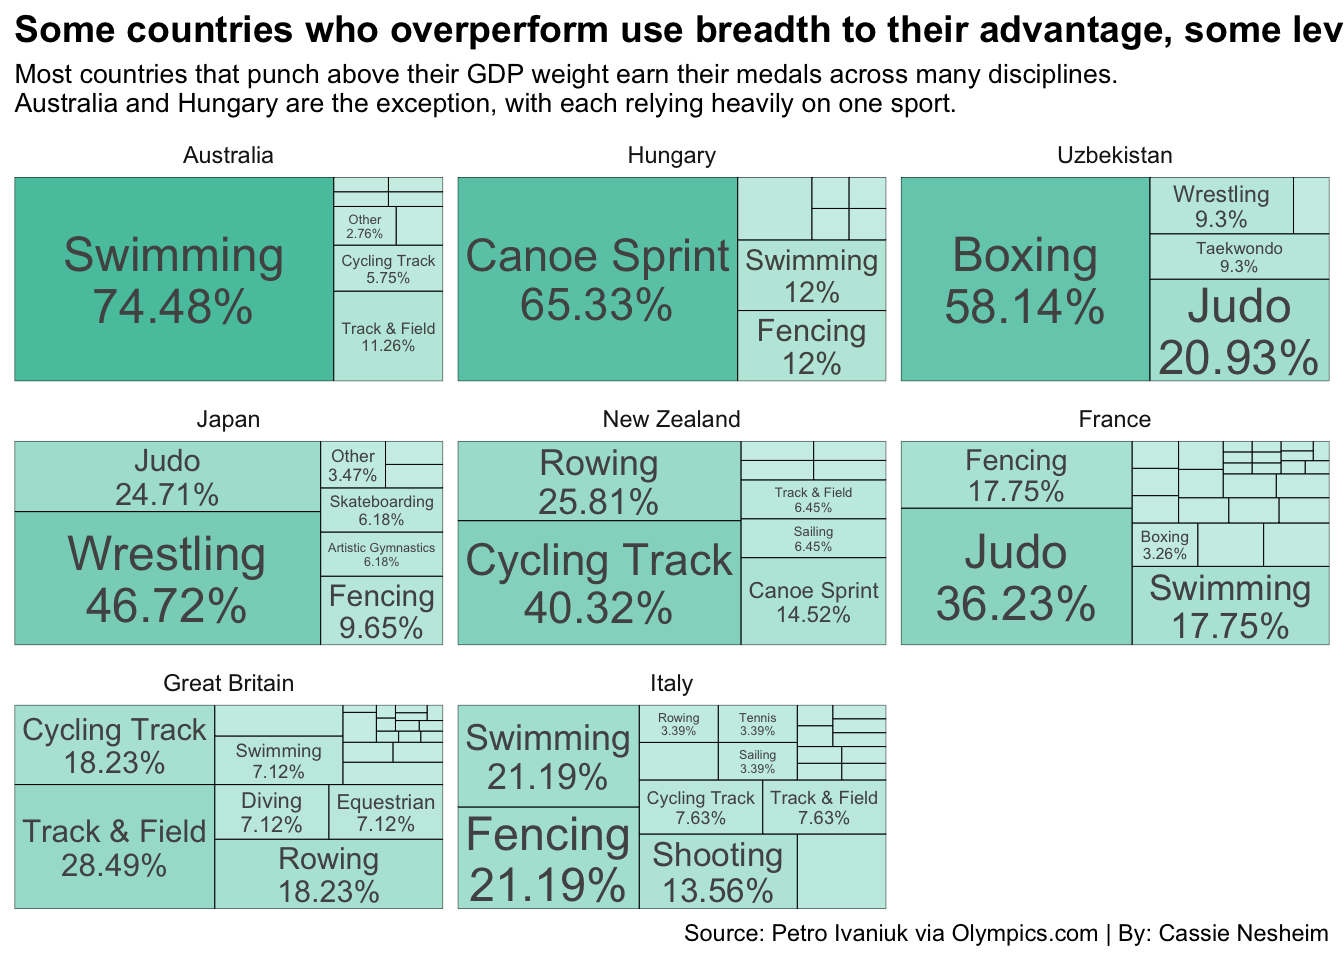
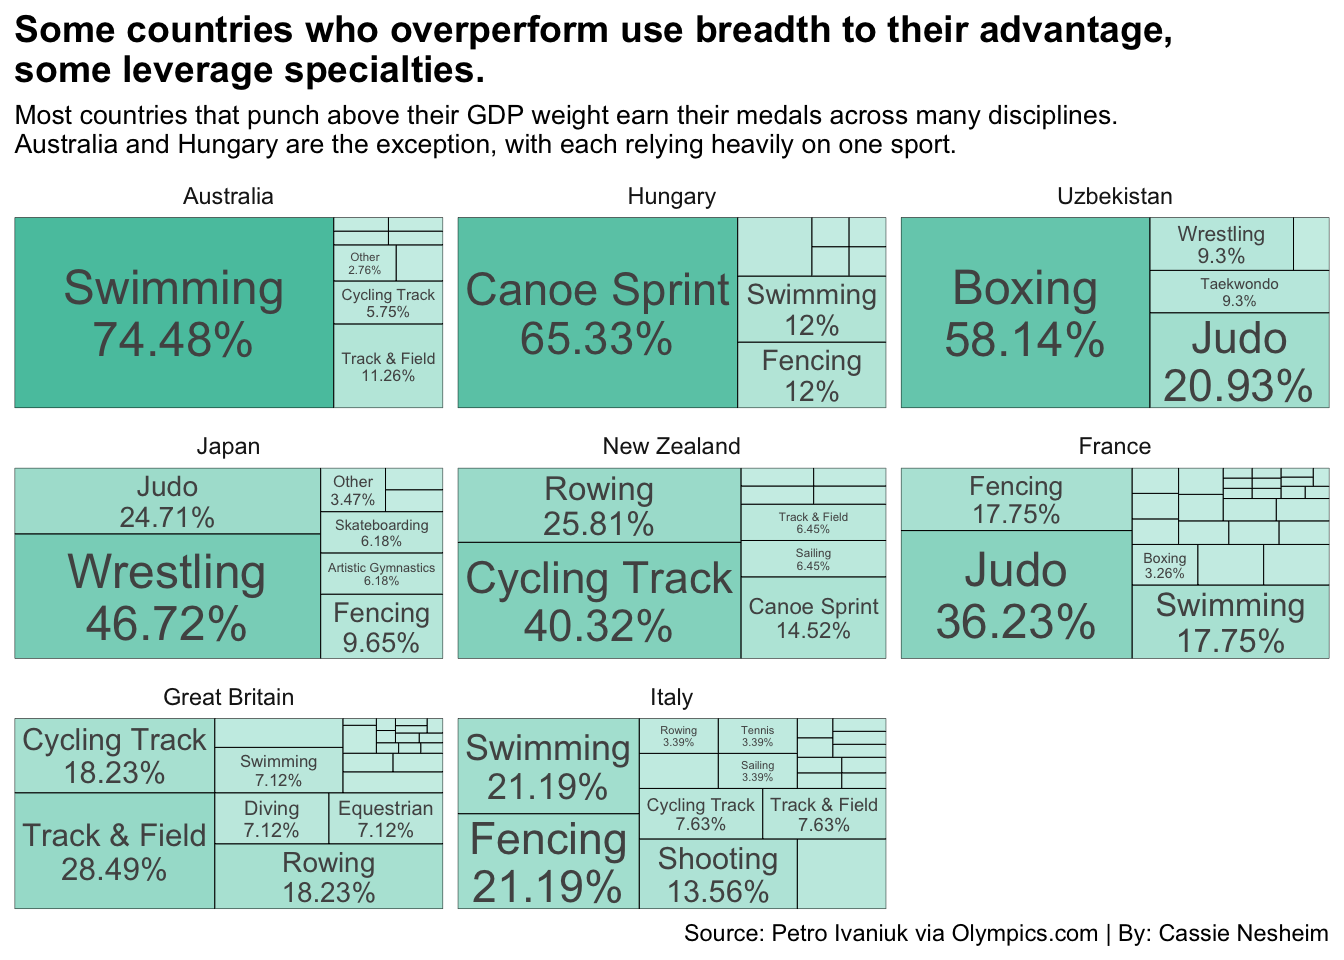
quick edit

Changed region(s): [[0.0, 0.0625, 1.0, 0.9375], [0.875, 0.0, 1.0, 0.0625]]

diff --git a/posts/olympics-gdp-population-medals/index.html b/posts/olympics-gdp-population-medals/index.html
@@ -711,23 +711,23 @@ pre > code.sourceCode > span > a:first-child::before { text-decoration: underlin
 <span id="cb6-74"><a href="#cb6-74" aria-hidden="true" tabindex="-1"></a>  )</span></code></pre></div><button title="Copy to Clipboard" class="code-copy-button"><i class="bi"></i></button></div>
 </details>
 <div class="cell-output-display">
-<div id="btnipgbjbt" style="padding-left:0px;padding-right:0px;padding-top:10px;padding-bottom:10px;overflow-x:auto;overflow-y:auto;width:auto;height:auto;">
-<style>#btnipgbjbt table {
+<div id="lgkdzvafzx" style="padding-left:0px;padding-right:0px;padding-top:10px;padding-bottom:10px;overflow-x:auto;overflow-y:auto;width:auto;height:auto;">
+<style>#lgkdzvafzx table {
   font-family: system-ui, 'Segoe UI', Roboto, Helvetica, Arial, sans-serif, 'Apple Color Emoji', 'Segoe UI Emoji', 'Segoe UI Symbol', 'Noto Color Emoji';
   -webkit-font-smoothing: antialiased;
   -moz-osx-font-smoothing: grayscale;
 }
 
-#btnipgbjbt thead, #btnipgbjbt tbody, #btnipgbjbt tfoot, #btnipgbjbt tr, #btnipgbjbt td, #btnipgbjbt th {
+#lgkdzvafzx thead, #lgkdzvafzx tbody, #lgkdzvafzx tfoot, #lgkdzvafzx tr, #lgkdzvafzx td, #lgkdzvafzx th {
   border-style: none;
 }
 
-#btnipgbjbt p {
+#lgkdzvafzx p {
   margin: 0;
   padding: 0;
 }
 
-#btnipgbjbt .gt_table {
+#lgkdzvafzx .gt_table {
   display: table;
   border-collapse: collapse;
   line-height: normal;
@@ -753,12 +753,12 @@ pre > code.sourceCode > span > a:first-child::before { text-decoration: underlin
   border-left-color: #D3D3D3;
 }
 
-#btnipgbjbt .gt_caption {
+#lgkdzvafzx .gt_caption {
   padding-top: 4px;
   padding-bottom: 4px;
 }
 
-#btnipgbjbt .gt_title {
+#lgkdzvafzx .gt_title {
   color: #333333;
   font-size: 125%;
   font-weight: initial;
@@ -770,7 +770,7 @@ pre > code.sourceCode > span > a:first-child::before { text-decoration: underlin
   border-bottom-width: 0;
 }
 
-#btnipgbjbt .gt_subtitle {
+#lgkdzvafzx .gt_subtitle {
   color: #333333;
   font-size: 85%;
   font-weight: initial;
@@ -782,7 +782,7 @@ pre > code.sourceCode > span > a:first-child::before { text-decoration: underlin
   border-top-width: 0;
 }
 
-#btnipgbjbt .gt_heading {
+#lgkdzvafzx .gt_heading {
   background-color: #FFFFFF;
   text-align: center;
   border-bottom-color: #FFFFFF;
@@ -794,13 +794,13 @@ pre > code.sourceCode > span > a:first-child::before { text-decoration: underlin
   border-right-color: #D3D3D3;
 }
 
-#btnipgbjbt .gt_bottom_border {
+#lgkdzvafzx .gt_bottom_border {
   border-bottom-style: none;
   border-bottom-width: 2px;
   border-bottom-color: #D3D3D3;
 }
 
-#btnipgbjbt .gt_col_headings {
+#lgkdzvafzx .gt_col_headings {
   border-top-style: none;
   border-top-width: 2px;
   border-top-color: #D3D3D3;
@@ -815,7 +815,7 @@ pre > code.sourceCode > span > a:first-child::before { text-decoration: underlin
   border-right-color: #D3D3D3;
 }
 
-#btnipgbjbt .gt_col_heading {
+#lgkdzvafzx .gt_col_heading {
   color: #333333;
   background-color: #FFFFFF;
   font-size: 100%;
@@ -835,7 +835,7 @@ pre > code.sourceCode > span > a:first-child::before { text-decoration: underlin
   overflow-x: hidden;
 }
 
-#btnipgbjbt .gt_column_spanner_outer {
+#lgkdzvafzx .gt_column_spanner_outer {
   color: #333333;
   background-color: #FFFFFF;
   font-size: 100%;
@@ -847,15 +847,15 @@ pre > code.sourceCode > span > a:first-child::before { text-decoration: underlin
   padding-right: 4px;
 }
 
-#btnipgbjbt .gt_column_spanner_outer:first-child {
+#lgkdzvafzx .gt_column_spanner_outer:first-child {
   padding-left: 0;
 }
 
-#btnipgbjbt .gt_column_spanner_outer:last-child {
+#lgkdzvafzx .gt_column_spanner_outer:last-child {
   padding-right: 0;
 }
 
-#btnipgbjbt .gt_column_spanner {
+#lgkdzvafzx .gt_column_spanner {
   border-bottom-style: none;
   border-bottom-width: 2px;
   border-bottom-color: #D3D3D3;
@@ -867,11 +867,11 @@ pre > code.sourceCode > span > a:first-child::before { text-decoration: underlin
   width: 100%;
 }
 
-#btnipgbjbt .gt_spanner_row {
+#lgkdzvafzx .gt_spanner_row {
   border-bottom-style: hidden;
 }
 
-#btnipgbjbt .gt_group_heading {
+#lgkdzvafzx .gt_group_heading {
   padding-top: 8px;
   padding-bottom: 8px;
   padding-left: 5px;
@@ -897,7 +897,7 @@ pre > code.sourceCode > span > a:first-child::before { text-decoration: underlin
   text-align: left;
 }
 
-#btnipgbjbt .gt_empty_group_heading {
+#lgkdzvafzx .gt_empty_group_heading {
   padding: 0.5px;
   color: #333333;
   background-color: #FFFFFF;
@@ -912,15 +912,15 @@ pre > code.sourceCode > span > a:first-child::before { text-decoration: underlin
   vertical-align: middle;
 }
 
-#btnipgbjbt .gt_from_md > :first-child {
+#lgkdzvafzx .gt_from_md > :first-child {
   margin-top: 0;
 }
 
-#btnipgbjbt .gt_from_md > :last-child {
+#lgkdzvafzx .gt_from_md > :last-child {
   margin-bottom: 0;
 }
 
-#btnipgbjbt .gt_row {
+#lgkdzvafzx .gt_row {
   padding-top: 8px;
   padding-bottom: 8px;
   padding-left: 5px;
@@ -939,7 +939,7 @@ pre > code.sourceCode > span > a:first-child::before { text-decoration: underlin
   overflow-x: hidden;
 }
 
-#btnipgbjbt .gt_stub {
+#lgkdzvafzx .gt_stub {
   color: #333333;
   background-color: #FFFFFF;
   font-size: 100%;
@@ -952,7 +952,7 @@ pre > code.sourceCode > span > a:first-child::before { text-decoration: underlin
   padding-right: 5px;
 }
 
-#btnipgbjbt .gt_stub_row_group {
+#lgkdzvafzx .gt_stub_row_group {
   color: #333333;
   background-color: #FFFFFF;
   font-size: 100%;
@@ -966,15 +966,15 @@ pre > code.sourceCode > span > a:first-child::before { text-decoration: underlin
   vertical-align: top;
 }
 
-#btnipgbjbt .gt_row_group_first td {
+#lgkdzvafzx .gt_row_group_first td {
   border-top-width: 2px;
 }
 
-#btnipgbjbt .gt_row_group_first th {
+#lgkdzvafzx .gt_row_group_first th {
   border-top-width: 2px;
 }
 
-#btnipgbjbt .gt_summary_row {
+#lgkdzvafzx .gt_summary_row {
   color: #333333;
   background-color: #FFFFFF;
   text-transform: inherit;
@@ -984,16 +984,16 @@ pre > code.sourceCode > span > a:first-child::before { text-decoration: underlin
   padding-right: 5px;
 }
 
-#btnipgbjbt .gt_first_summary_row {
+#lgkdzvafzx .gt_first_summary_row {
   border-top-style: none;
   border-top-color: #D3D3D3;
 }
 
-#btnipgbjbt .gt_first_summary_row.thick {
+#lgkdzvafzx .gt_first_summary_row.thick {
   border-top-width: 2px;
 }
 
-#btnipgbjbt .gt_last_summary_row {
+#lgkdzvafzx .gt_last_summary_row {
   padding-top: 8px;
   padding-bottom: 8px;
   padding-left: 5px;
@@ -1003,7 +1003,7 @@ pre > code.sourceCode > span > a:first-child::before { text-decoration: underlin
   border-bottom-color: #D3D3D3;
 }
 
-#btnipgbjbt .gt_grand_summary_row {
+#lgkdzvafzx .gt_grand_summary_row {
   color: #333333;
   background-color: #FFFFFF;
   text-transform: inherit;
@@ -1013,7 +1013,7 @@ pre > code.sourceCode > span > a:first-child::before { text-decoration: underlin
   padding-right: 5px;
 }
 
-#btnipgbjbt .gt_first_grand_summary_row {
+#lgkdzvafzx .gt_first_grand_summary_row {
   padding-top: 8px;
   padding-bottom: 8px;
   padding-left: 5px;
@@ -1023,7 +1023,7 @@ pre > code.sourceCode > span > a:first-child::before { text-decoration: underlin
   border-top-color: #D3D3D3;
 }
 
-#btnipgbjbt .gt_last_grand_summary_row_top {
+#lgkdzvafzx .gt_last_grand_summary_row_top {
   padding-top: 8px;
   padding-bottom: 8px;
   padding-left: 5px;
@@ -1033,11 +1033,11 @@ pre > code.sourceCode > span > a:first-child::before { text-decoration: underlin
   border-bottom-color: #D3D3D3;
 }
 
-#btnipgbjbt .gt_striped {
+#lgkdzvafzx .gt_striped {
   background-color: rgba(128, 128, 128, 0.05);
 }
 
-#btnipgbjbt .gt_table_body {
+#lgkdzvafzx .gt_table_body {
   border-top-style: none;
   border-top-width: 2px;
   border-top-color: #D3D3D3;
@@ -1046,7 +1046,7 @@ pre > code.sourceCode > span > a:first-child::before { text-decoration: underlin
   border-bottom-color: #D3D3D3;
 }
 
-#btnipgbjbt .gt_footnotes {
+#lgkdzvafzx .gt_footnotes {
   color: #333333;
   background-color: #FFFFFF;
   border-bottom-style: none;
@@ -1060,7 +1060,7 @@ pre > code.sourceCode > span > a:first-child::before { text-decoration: underlin
   border-right-color: #D3D3D3;
 }
 
-#btnipgbjbt .gt_footnote {
+#lgkdzvafzx .gt_footnote {
   margin: 0px;
   font-size: 90%;
   padding-top: 4px;
@@ -1069,7 +1069,7 @@ pre > code.sourceCode > span > a:first-child::before { text-decoration: underlin
   padding-right: 5px;
 }
 
-#btnipgbjbt .gt_sourcenotes {
+#lgkdzvafzx .gt_sourcenotes {
   color: #333333;
   background-color: #FFFFFF;
   border-bottom-style: none;
@@ -1083,7 +1083,7 @@ pre > code.sourceCode > span > a:first-child::before { text-decoration: underlin
   border-right-color: #D3D3D3;
 }
 
-#btnipgbjbt .gt_sourcenote {
+#lgkdzvafzx .gt_sourcenote {
   font-size: 90%;
   padding-top: 4px;
   padding-bottom: 4px;
@@ -1091,72 +1091,72 @@ pre > code.sourceCode > span > a:first-child::before { text-decoration: underlin
   padding-right: 5px;
 }
 
-#btnipgbjbt .gt_left {
+#lgkdzvafzx .gt_left {
   text-align: left;
 }
 
-#btnipgbjbt .gt_center {
+#lgkdzvafzx .gt_center {
   text-align: center;
 }
 
-#btnipgbjbt .gt_right {
+#lgkdzvafzx .gt_right {
   text-align: right;
   font-variant-numeric: tabular-nums;
 }
 
-#btnipgbjbt .gt_font_normal {
+#lgkdzvafzx .gt_font_normal {
   font-weight: normal;
 }
 
-#btnipgbjbt .gt_font_bold {
+#lgkdzvafzx .gt_font_bold {
   font-weight: bold;
 }
 
-#btnipgbjbt .gt_font_italic {
+#lgkdzvafzx .gt_font_italic {
   font-style: italic;
 }
 
-#btnipgbjbt .gt_super {
+#lgkdzvafzx .gt_super {
   font-size: 65%;
 }
 
-#btnipgbjbt .gt_footnote_marks {
+#lgkdzvafzx .gt_footnote_marks {
   font-size: 75%;
   vertical-align: 0.4em;
   position: initial;
 }
 
-#btnipgbjbt .gt_asterisk {
+#lgkdzvafzx .gt_asterisk {
   font-size: 100%;
   vertical-align: 0;
 }
 
-#btnipgbjbt .gt_indent_1 {
+#lgkdzvafzx .gt_indent_1 {
   text-indent: 5px;
 }
 
-#btnipgbjbt .gt_indent_2 {
+#lgkdzvafzx .gt_indent_2 {
   text-indent: 10px;
 }
 
-#btnipgbjbt .gt_indent_3 {
+#lgkdzvafzx .gt_indent_3 {
   text-indent: 15px;
 }
 
-#btnipgbjbt .gt_indent_4 {
+#lgkdzvafzx .gt_indent_4 {
   text-indent: 20px;
 }
 
-#btnipgbjbt .gt_indent_5 {
+#lgkdzvafzx .gt_indent_5 {
   text-indent: 25px;
 }
 
-#btnipgbjbt .katex-display {
+#lgkdzvafzx .katex-display {
   display: inline-flex !important;
   margin-bottom: 0.75em !important;
 }
 
-#btnipgbjbt div.Reactable > div.rt-table > div.rt-thead > div.rt-tr.rt-tr-group-header > div.rt-th-group:after {
+#lgkdzvafzx div.Reactable > div.rt-table > div.rt-thead > div.rt-tr.rt-tr-group-header > div.rt-th-group:after {
   height: 0px !important;
 }
 </style>
@@ -1262,7 +1262,7 @@ pre > code.sourceCode > span > a:first-child::before { text-decoration: underlin
 <span id="cb7-28"><a href="#cb7-28" aria-hidden="true" tabindex="-1"></a>  <span class="fu">facet_wrap</span>(<span class="sc">~</span>country) <span class="sc">+</span></span>
 <span id="cb7-29"><a href="#cb7-29" aria-hidden="true" tabindex="-1"></a>  <span class="fu">geom_treemap_text</span>(<span class="at">color=</span><span class="st">"gray32"</span>, <span class="at">place=</span><span class="st">"center"</span>) <span class="sc">+</span></span>
 <span id="cb7-30"><a href="#cb7-30" aria-hidden="true" tabindex="-1"></a>  <span class="fu">scale_fill_gradient</span>(<span class="at">low=</span><span class="st">"#CFEFE8"</span>, <span class="at">high=</span><span class="st">"#57C4AD"</span>) <span class="sc">+</span></span>
-<span id="cb7-31"><a href="#cb7-31" aria-hidden="true" tabindex="-1"></a>  <span class="fu">labs</span>(<span class="at">title=</span><span class="st">"Some countries who overperform use breadth to their advantage, some leverage specialties."</span>, </span>
+<span id="cb7-31"><a href="#cb7-31" aria-hidden="true" tabindex="-1"></a>  <span class="fu">labs</span>(<span class="at">title=</span><span class="st">"Some countries who overperform use breadth to their advantage, </span><span class="sc">\n</span><span class="st">some leverage specialties."</span>, </span>
 <span id="cb7-32"><a href="#cb7-32" aria-hidden="true" tabindex="-1"></a>       <span class="at">subtitle=</span><span class="st">"Most countries that punch above their GDP weight earn their medals across many disciplines. </span><span class="sc">\n</span><span class="st">Australia and Hungary are the exception, with each relying heavily on one sport."</span>, </span>
 <span id="cb7-33"><a href="#cb7-33" aria-hidden="true" tabindex="-1"></a>       <span class="at">caption=</span><span class="st">"Source: Petro Ivaniuk via Olympics.com | By: Cassie Nesheim"</span></span>
 <span id="cb7-34"><a href="#cb7-34" aria-hidden="true" tabindex="-1"></a>    ) <span class="sc">+</span></span>

diff --git a/index.html b/index.html
@@ -373,7 +373,7 @@ window.Quarto = {
 
 <div class="quarto-listing quarto-listing-container-default" id="listing-listing">
 <div class="list quarto-listing-default">
-<div class="quarto-post image-right" data-index="0" data-categories="b2x5bXBpY3MlMkNnZHAlMkNwb3B1bGF0aW9u" data-listing-date-sort="1777266000000" data-listing-file-modified-sort="1777324777383" data-listing-date-modified-sort="NaN" data-listing-reading-time-sort="20" data-listing-word-count-sort="3904">
+<div class="quarto-post image-right" data-index="0" data-categories="b2x5bXBpY3MlMkNnZHAlMkNwb3B1bGF0aW9u" data-listing-date-sort="1777266000000" data-listing-file-modified-sort="1777327227246" data-listing-date-modified-sort="NaN" data-listing-reading-time-sort="20" data-listing-word-count-sort="3904">
 <div class="thumbnail"><a href="./posts/olympics-gdp-population-medals/index.html" class="no-external">
 
 <img loading="lazy" src="./posts/olympics-gdp-population-medals/table_gdp_spmc.png" class="thumbnail-image">
